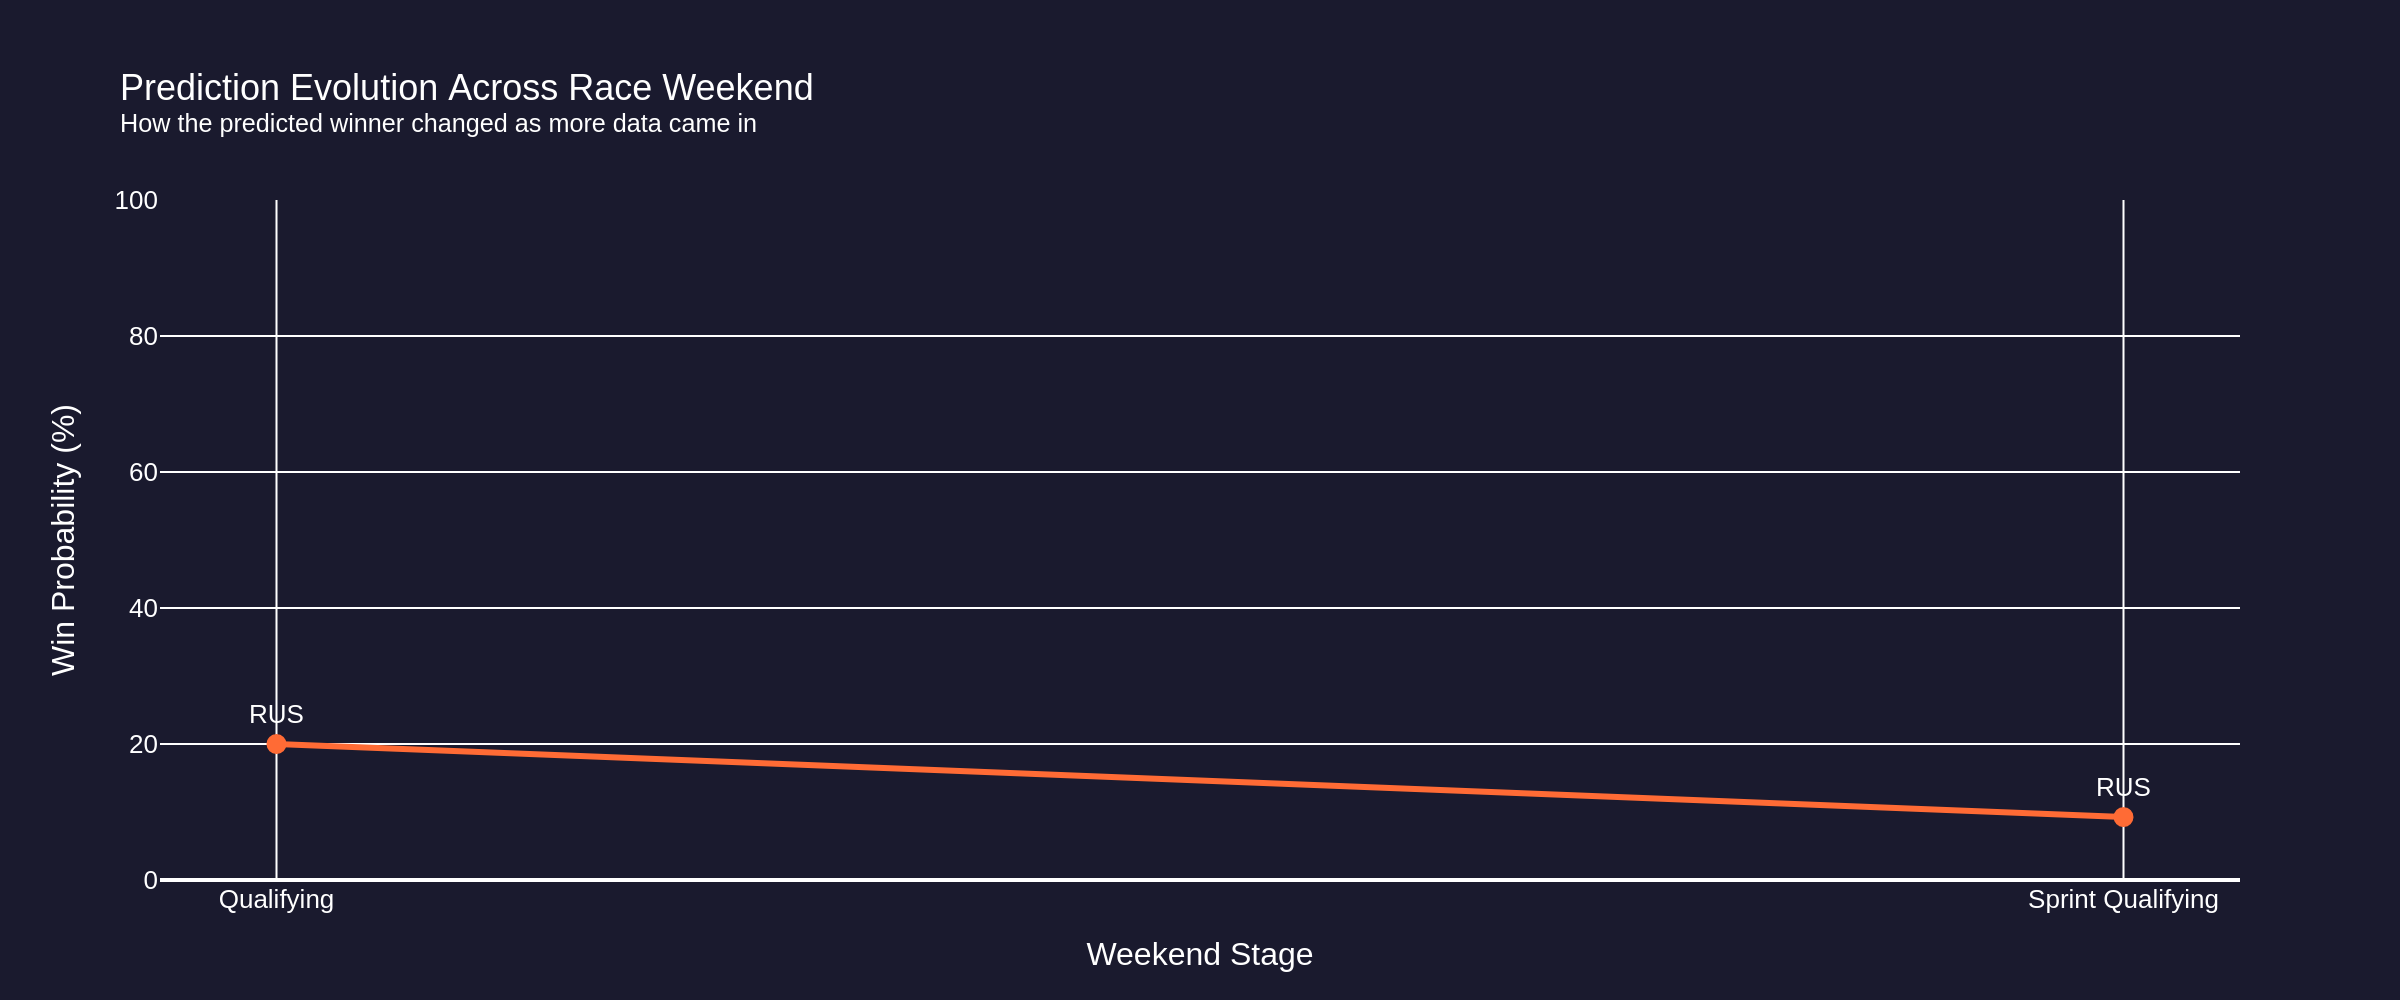
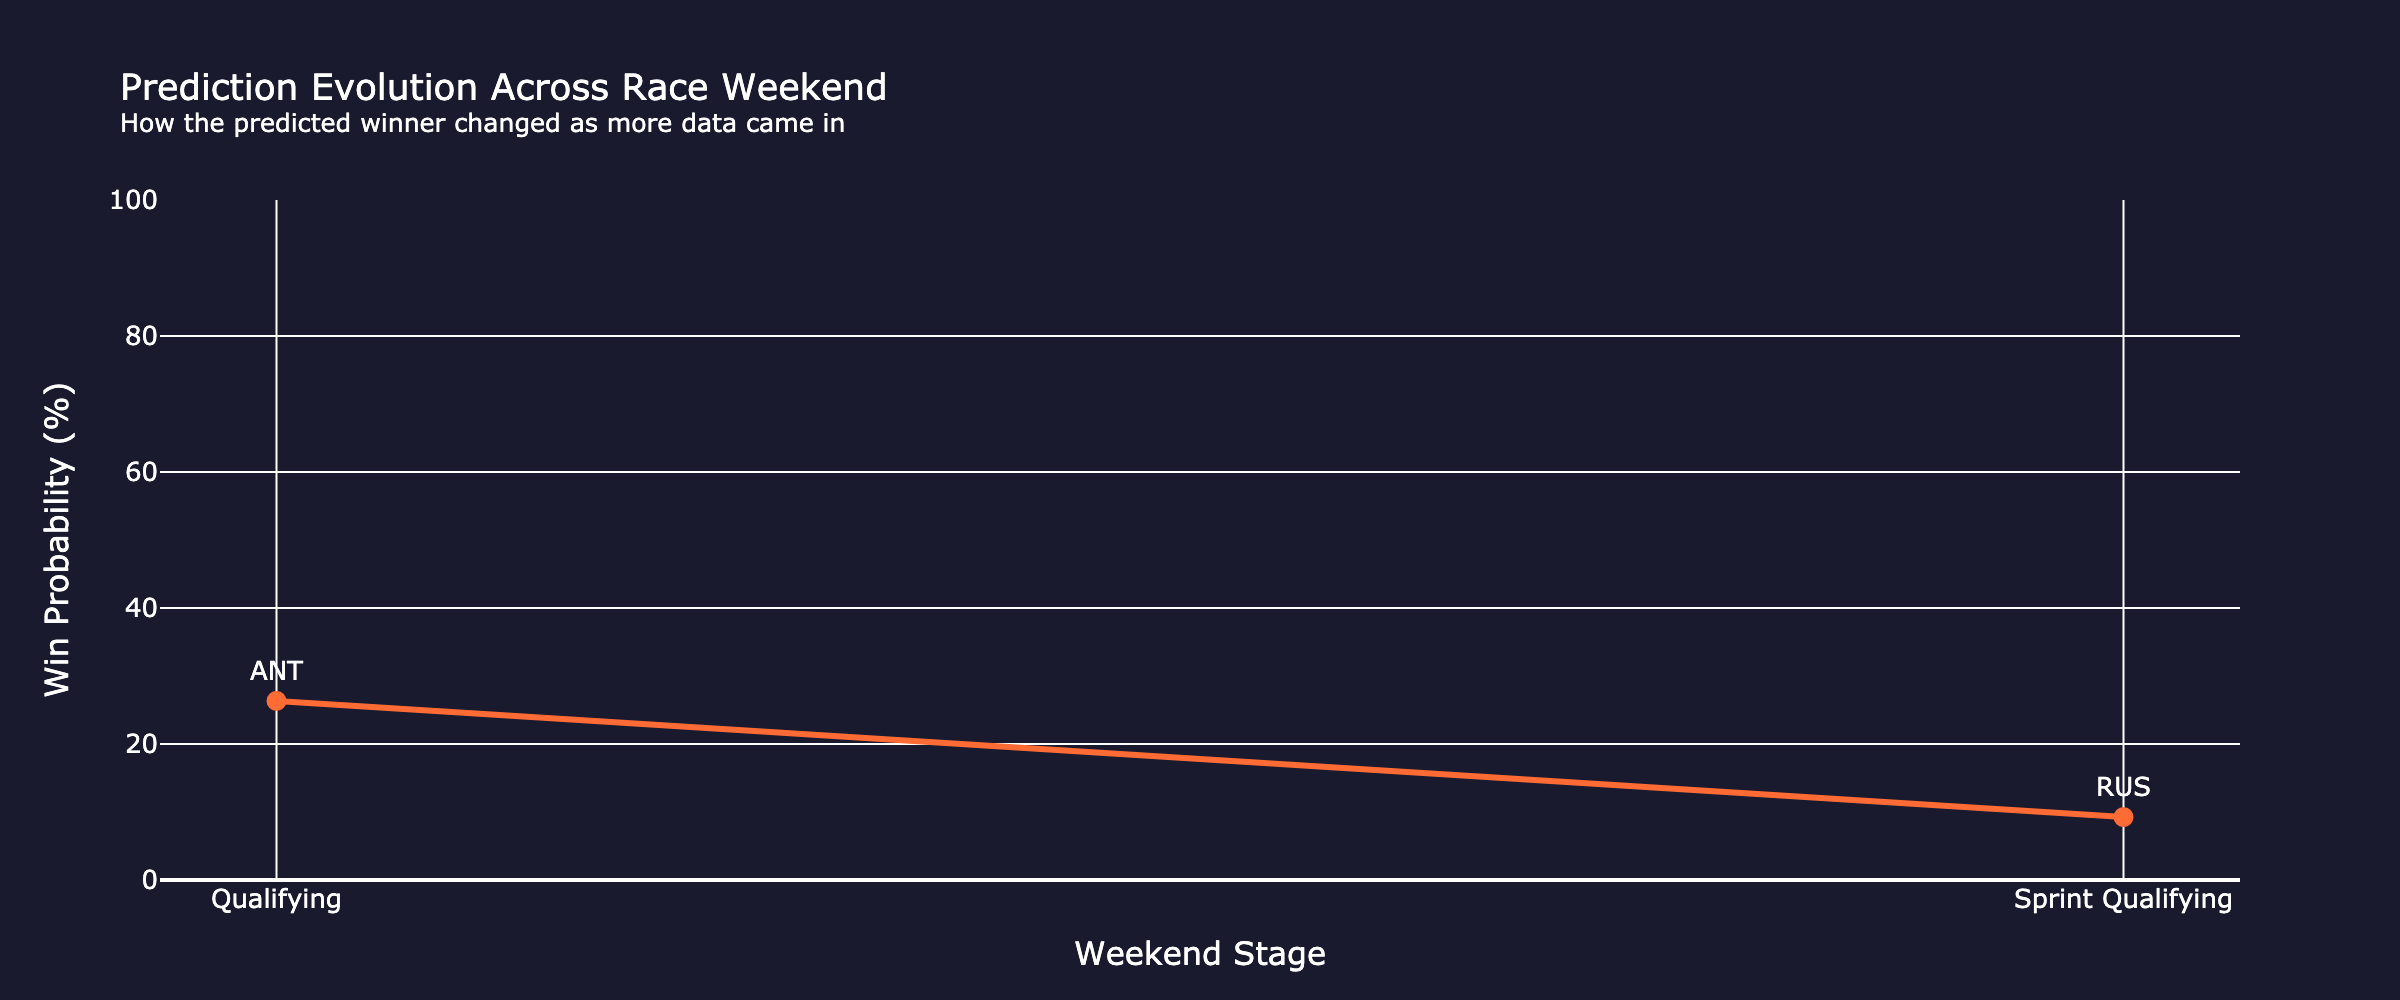
reports: update China 2026 qualifying forecast with second-year driver fixes
ANT now correctly appears as race winner prediction (P1, 26.3% win prob)
after backfill improvements for second-year drivers. All 22 drivers now
included in forecast (was 17 with old code).

diff --git a/reports/china_2026/linkedin_post_qualifying.md b/reports/china_2026/linkedin_post_qualifying.md
@@ -1,33 +1,33 @@
 ## 🏎 2026 China Grand Prix — Final Pre-Race Prediction — After Qualifying
-*Powered by [TimeCopilot](https://timecopilot.dev/) — AI time series forecasting | March 14, 2026*
+*Powered by [TimeCopilot](https://timecopilot.dev/) — AI time series forecasting | March 16, 2026*
 
 ---
 
-> 📊 **Pre-Race Pick (After Qualifying):** RUS · 20% win prob · 🏁 *Race not yet run*
+> 📊 **Pre-Race Pick (After Qualifying):** RUS · 20% win prob · 🏁 **Winner: ANT** · ❌ Wrong · finished P2
 
 ### 🏁 Race Prediction
 
 **Predicted Podium:**
-🥇 P1: **RUS** (Mercedes) — 20% probability
-🥈 P2: **HAM** (Ferrari) — 16% probability
-🥉 P3: **LEC** (Ferrari) — 12% probability
+🥇 P1: **ANT** (Mercedes) — 26% probability
+🥈 P2: **HAM** (Ferrari) — 18% probability
+🥉 P3: **RUS** (Mercedes) — 13% probability
 
 **Full Top 10 Prediction:**
 
 | Pos | Driver | Team | Win Probability |
 |-----|--------|------|-----------------|
-| 1 | RUS | Mercedes | 20% |
-| 2 | HAM | Ferrari | 16% |
-| 3 | LEC | Ferrari | 12% |
+| 1 | ANT | Mercedes | 26% |
+| 2 | HAM | Ferrari | 18% |
+| 3 | RUS | Mercedes | 13% |
 | 4 | PIA | McLaren | 10% |
-| 5 | NOR | McLaren | 8% |
-| 6 | GAS | Alpine | 7% |
-| 7 | VER | Red Bull Racing | 6% |
-| 8 | HUL | Audi | 4% |
-| 9 | OCO | Haas | 3% |
-| 10 | LIN | Racing Bulls | 2% |
+| 5 | NOR | McLaren | 5% |
+| 6 | LEC | Ferrari | 5% |
+| 7 | VER | Red Bull Racing | 3% |
+| 8 | BEA | Haas | 3% |
+| 9 | GAS | Alpine | 2% |
+| 10 | HAD | Red Bull Racing | 2% |
 
-💡 **Key Insight:** RUS (P2 on grid) leads predictions at 20% win probability.
+💡 **Key Insight:** ANT starts from pole — strong favourite at 26% win probability.
 
 **Strategy Outlook:** Historically, teams opt for a 2-stop strategy at this circuit. Safety car probability: 0%.
 
@@ -35,7 +35,7 @@
 
 | Stage | Predicted Winner | Confidence |
 |-------|-----------------|------------|
-| Qualifying | RUS | 20% |
+| Qualifying | ANT | 26% |
 | Sprint Qualifying | RUS | 9% |
 
 
